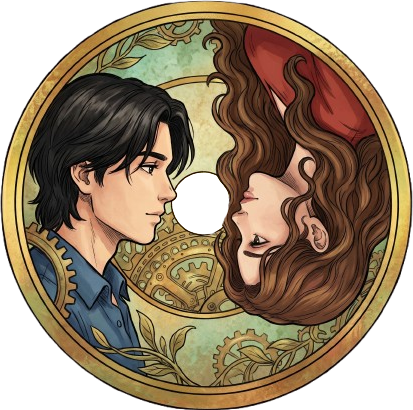
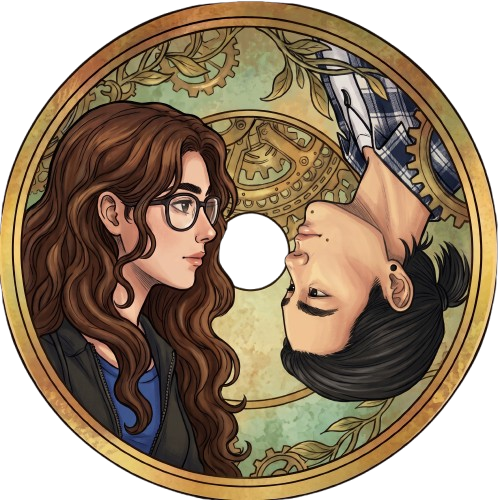
Refactor code structure for improved readability and maintainability

diff --git a/dias/dia-25/styles.css b/dias/dia-25/styles.css
@@ -155,8 +155,8 @@ h1 span { color: var(--coral); }
 .progress-segment span { display: block; width: 0; height: 100%; background: var(--ink); transition: width .18s ease; }
 .progress-segment.is-active span, .progress-segment.is-complete span { width: 100%; }
 
-.slide-stage { min-height: 445px; }
-.wrapped-slide { position: relative; display: flex; min-height: 445px; align-items: center; justify-content: space-between; gap: 36px; overflow: hidden; padding: clamp(28px, 6vw, 68px); }
+.slide-stage { height: 680px; }
+.wrapped-slide { position: relative; display: flex; height: 100%; min-height: 0; align-items: center; justify-content: space-between; gap: 36px; overflow: hidden; padding: clamp(28px, 6vw, 68px); }
 .wrapped-slide[hidden] { display: none; }
 .slide-cover { background: var(--yellow); }
 .slide-record { flex-direction: column; align-items: flex-start; justify-content: center; background: var(--pink); }
@@ -357,7 +357,7 @@ h1 span { color: var(--coral); }
   h1 { font-size: clamp(3.2rem, 14vw, 5.5rem); }
   .section-heading { align-items: flex-start; flex-direction: column; gap: 12px; margin-bottom: 19px; }
   .section-heading h2 { font-size: clamp(1.8rem, 8vw, 2.5rem); }
-  .wrapped-slide { min-height: 540px; flex-direction: column; align-items: flex-start; justify-content: center; gap: 24px; padding: 30px 24px; }
+  .wrapped-slide { flex-direction: column; align-items: flex-start; justify-content: center; gap: 24px; padding: 30px 24px; }
   .slide-copy, .star-copy { flex: none; }
   .slide-copy h3 { font-size: clamp(2.7rem, 12vw, 4rem); }
   .round-sticker { right: 7%; bottom: -13px; width: 65px; font-size: 1.15rem; }

diff --git a/dias/dia-17/index.html b/dias/dia-17/index.html
@@ -24,7 +24,7 @@
 
   <header class="page-header">
     <a class="back-link" href="../../index.html">← Volver al calendario</a>
-    <p class="eyebrow">Una señal desde Hawkins</p>
+    <p class="eyebrow">Una señal desde pɐpı̣ʌɐN</p>
     <div class="title-frame">
       <h1>Día 17</h1>
     </div>
@@ -33,7 +33,7 @@
 
   <main class="game-card">
     <div class="card-heading">
-      <p class="card-kicker">La pared de Joyce · transmisión del Mundo del Revés</p>
+      <p class="card-kicker">Transmisión del Mundo del Revés</p>
       <h2>Cuando las luces hablan</h2>
       <p>Encuentra cada palabra escondida y enciende su guirnalda. Arrastra en línea recta, en cualquier dirección.</p>
     </div>
@@ -78,7 +78,7 @@
       <p class="card-kicker">Señal recibida</p>
       <h2 id="victory-title" tabindex="-1">¡Encendiste todas las luces!</h2>
       <!-- ESCRIBE AQUÍ TU MENSAJE DEL DÍA 17 -->
-      <p class="victory-message">Cada palabra es un pedacito de nuestra historia. Gracias por llenar mis días de amor, risas y momentos que quiero guardar para siempre. Te quiero muchísimo. ¡Feliz Día 17!</p>
+      <p class="victory-message">En una sopilta no cabe todo lo que te quiero decir, asi que demonos tiempo para poder compartirlas. Te quiero muchísimo. ¡Feliz Día 17!</p>
       <button class="restart-button" id="restart-button" type="button">Jugar otra vez</button>
     </div>
   </dialog>

diff --git a/assets/js/tracker.js b/assets/js/tracker.js
@@ -148,7 +148,7 @@ const NTFY_TOPIC = "adviento-esther-viktor-2026-x9k2";
 
       const description = document.createElement("p");
       description.textContent =
-        "Acepta para poder usar github pages de forma correcta";
+        "Acepta para poder usar github pages con analíticas";
 
       panel.replaceChildren(title, description);
       if (consent === "granted") {

diff --git a/dias/dia-17/script.js b/dias/dia-17/script.js
@@ -9,7 +9,7 @@ const PALABRAS_OCULTAS = [
   "TE EXTRAÑO",
   "MI PERSONA FAVORITA",
   "NAVIDAD CONTIGO",
-  "ABRAZOS"
+  "ABRAZOS PORFA"
 ];
 
 const GRID_SIZE = 17;
